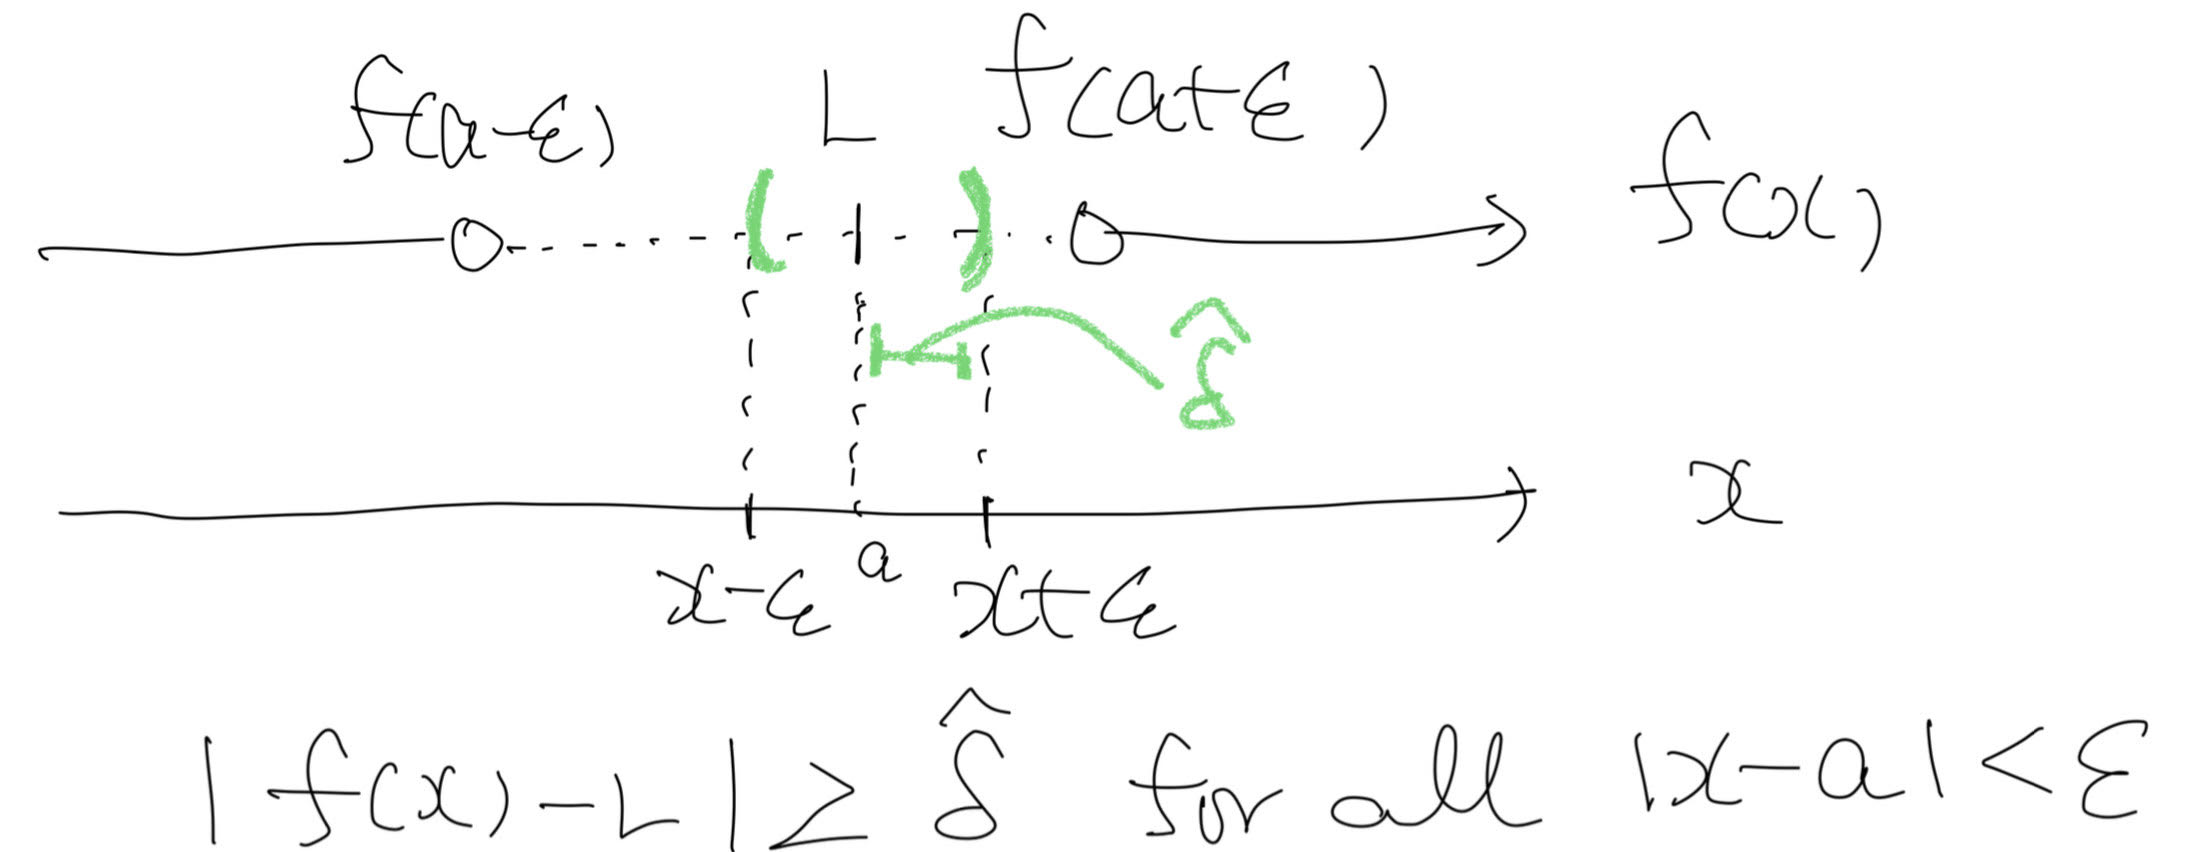
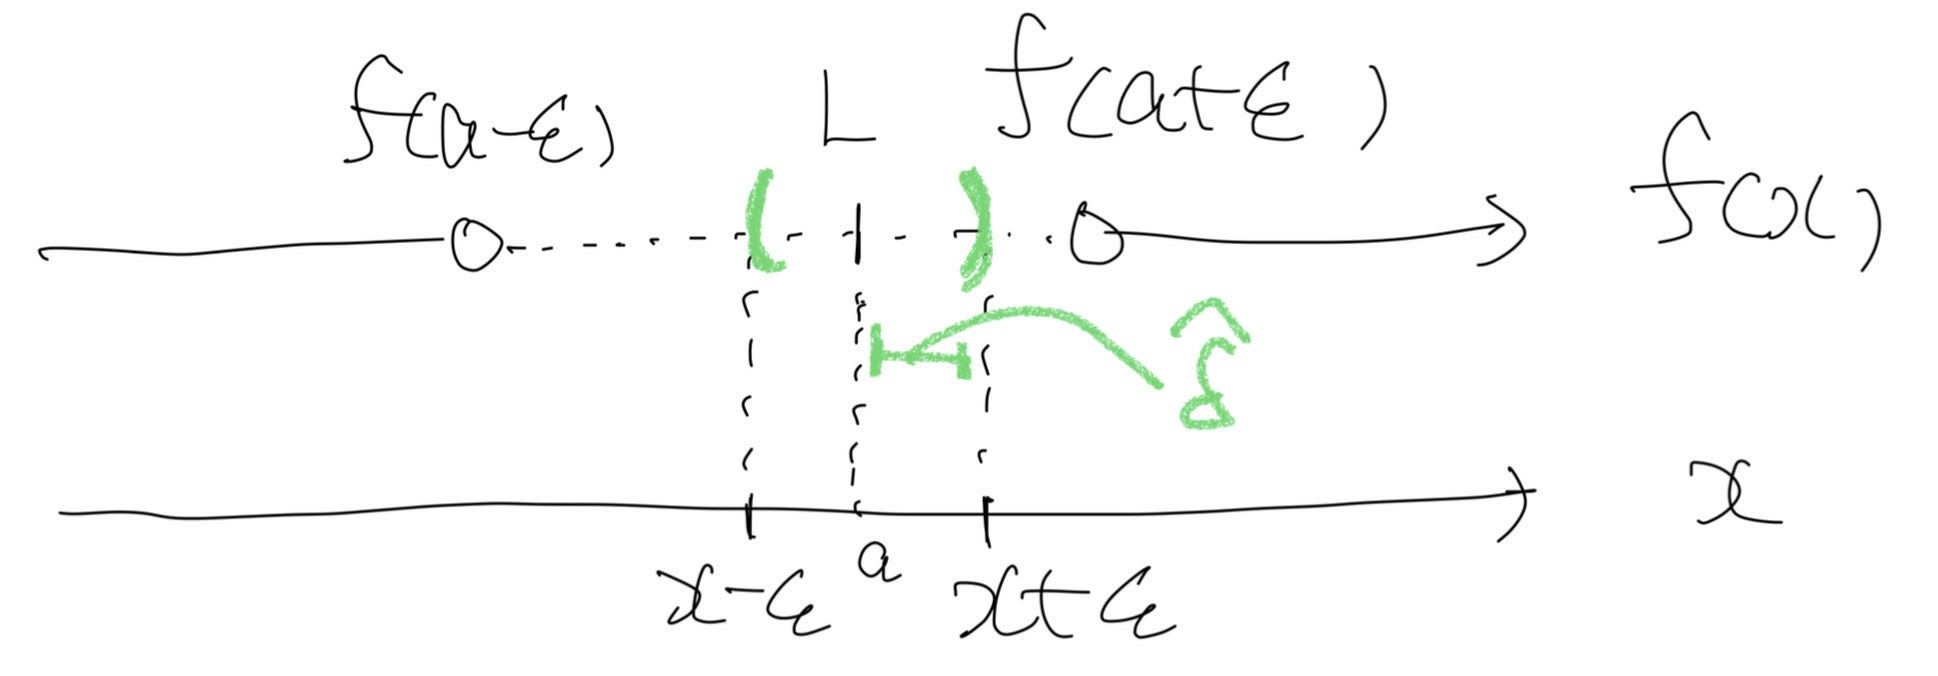
fix

diff --git a/docs/posts/math-simple/2023-06-26-imply.html b/docs/posts/math-simple/2023-06-26-imply.html
@@ -298,7 +298,7 @@ Q^C = \{ x: |f(x) - L| \geq \delta ~, \forall x  \}
 <div class="quarto-layout-row quarto-layout-valign-bottom">
 <div class="quarto-figure quarto-figure-center" style="flex-basis: 42.9%;justify-content: center;">
 <figure class="figure">
-<p><a href="images/limf_1.jpg" class="lightbox" data-gallery="quarto-lightbox-gallery-1" title="f(x)가 존재하는 경우"><img src="images/limf_1.jpg" class="img-fluid figure-img"></a></p>
+<p><a href="images/limf_1.jpg" class="lightbox" title="f(x)가 존재하는 경우" data-gallery="quarto-lightbox-gallery-1"><img src="images/limf_1.jpg" class="img-fluid figure-img"></a></p>
 <figcaption class="figure-caption"><span class="math inline">\(f(x)\)</span>가 존재하는 경우</figcaption>
 </figure>
 </div>
@@ -307,7 +307,7 @@ Q^C = \{ x: |f(x) - L| \geq \delta ~, \forall x  \}
 </div>
 <div class="quarto-figure quarto-figure-center" style="flex-basis: 42.9%;justify-content: center;">
 <figure class="figure">
-<p><a href="images/limf_2.jpg" class="lightbox" data-gallery="quarto-lightbox-gallery-2" title="f(x)가 존재하지 않는 경우"><img src="images/limf_2.jpg" class="img-fluid figure-img"></a></p>
+<p><a href="images/limf_2.jpg" class="lightbox" title="f(x)가 존재하지 않는 경우" data-gallery="quarto-lightbox-gallery-2"><img src="images/limf_2.jpg" class="img-fluid figure-img"></a></p>
 <figcaption class="figure-caption"><span class="math inline">\(f(x)\)</span>가 존재하지 않는 경우</figcaption>
 </figure>
 </div>
@@ -327,7 +327,8 @@ Q^C = \{ x: |f(x) - L| \geq \delta ~, \forall x  \}
 <p><span class="math inline">\(L\)</span>이 <span class="math inline">\((f(a-\epsilon), f(a+\epsilon))\)</span> 사이 어딘가에 존재한다고 하자. 이때 <span class="math inline">\(|L-f(a-\epsilon)|\)</span>과 <span class="math inline">\(|L-f(a+\epsilon)|\)</span> 중 작은 값을 <span class="math inline">\(\hat \delta\)</span>라고 하자. 이때 <span class="math inline">\(x\)</span>가 <span class="math inline">\(a\)</span>에 적당하게 접근하면 <span class="math inline">\(|f(x)-L| \geq \hat \delta\)</span>는 항상 만족한다. 즉, <span class="math inline">\(|x-a| &lt; \epsilon\)</span>을 만족하는 <span class="math inline">\(\epsilon\)</span>이 존재한다. 즉, <span class="math inline">\(P \cap Q^c \neq \emptyset\)</span>가 성립한다. 도움이 될지는 모르겠지만 그림으로 살펴보자.</p>
 <div class="quarto-figure quarto-figure-center">
 <figure class="figure">
-<p><a href="images/limf_3.jpg" class="lightbox" data-gallery="quarto-lightbox-gallery-3"><img src="images/limf_3.jpg" class="img-fluid figure-img" style="width:70.0%"></a></p>
+<p><a href="images/limf_3.jpg" class="lightbox" title="그림의 상황을 명제로 표현해보자; |f(x)-L| \geq \delta for all x s.t. |x-a| < \epsilon" data-gallery="quarto-lightbox-gallery-3"><img src="images/limf_3.jpg" class="img-fluid figure-img" style="width:70.0%"></a></p>
+<figcaption class="figure-caption">그림의 상황을 명제로 표현해보자; <span class="math inline">\(|f(x)-L| \geq \delta\)</span> for all <span class="math inline">\(x\)</span> s.t. <span class="math inline">\(|x-a| &lt; \epsilon\)</span></figcaption>
 </figure>
 </div>
 <p><span class="math inline">\(f(x)\)</span>는 <span class="math inline">\(x=a\)</span> 주변에서 끊어져 있고, 이 간격과 <span class="math inline">\(L\)</span>의 위치를 고려해서 <span class="math inline">\(|f(x)-L| \geq \hat \delta\)</span>를 모든 <span class="math inline">\(x\)</span> s.t. <span class="math inline">\(|x-a| &lt; \epsilon\)</span> 에 대해서 만족하는 <span class="math inline">\(\hat \delta\)</span>를 찾을 수 있다.</p>
@@ -686,7 +687,7 @@ window.document.addEventListener("DOMContentLoaded", function (event) {
 });
 </script>
 </div> <!-- /content -->
-<script>var lightboxQuarto = GLightbox({"selector":".lightbox","openEffect":"zoom","loop":true,"closeEffect":"zoom","descPosition":"bottom"});</script>
+<script>var lightboxQuarto = GLightbox({"selector":".lightbox","closeEffect":"zoom","descPosition":"bottom","openEffect":"zoom","loop":true});</script>
 
 
 

diff --git a/docs/index.html b/docs/index.html
@@ -167,7 +167,7 @@ ul.task-list li input[type="checkbox"] {
 
 <div class="quarto-listing quarto-listing-container-default" id="listing-listing">
 <div class="list quarto-listing-default">
-<div class="quarto-post image-right" data-index="0" data-categories="math-simple" data-listing-date-sort="1687705200000" data-listing-file-modified-sort="1687826351117" data-listing-date-modified-sort="NaN" data-listing-reading-time-sort="6">
+<div class="quarto-post image-right" data-index="0" data-categories="math-simple" data-listing-date-sort="1687705200000" data-listing-file-modified-sort="1687827330383" data-listing-date-modified-sort="NaN" data-listing-reading-time-sort="7">
 <div class="thumbnail">
 <p><a href="./posts/math-simple/2023-06-26-imply.html"> <img src="./posts/math-simple/images/proof.jfif" class="thumbnail-image"> </a></p>
 </div>
